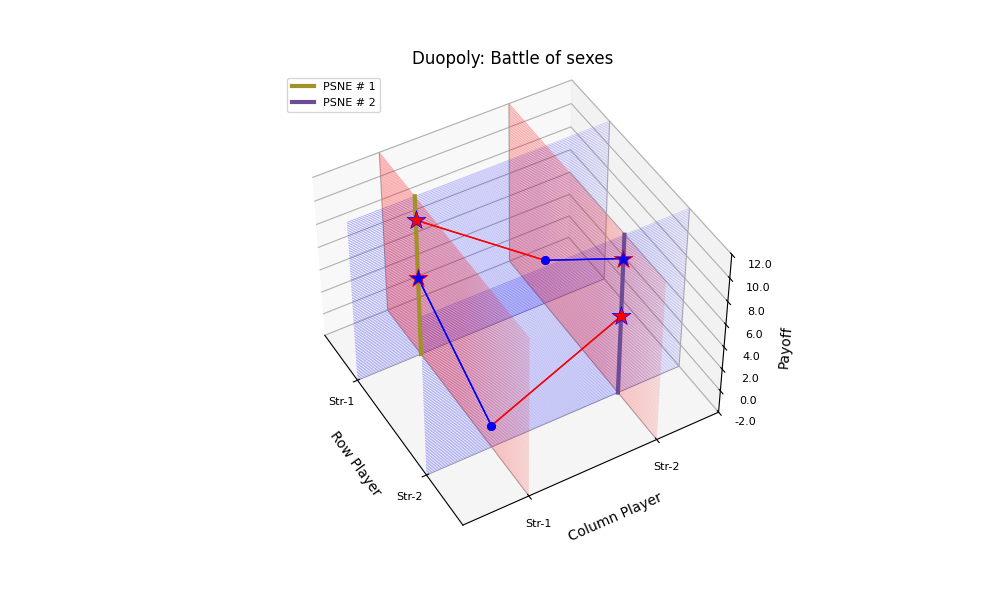
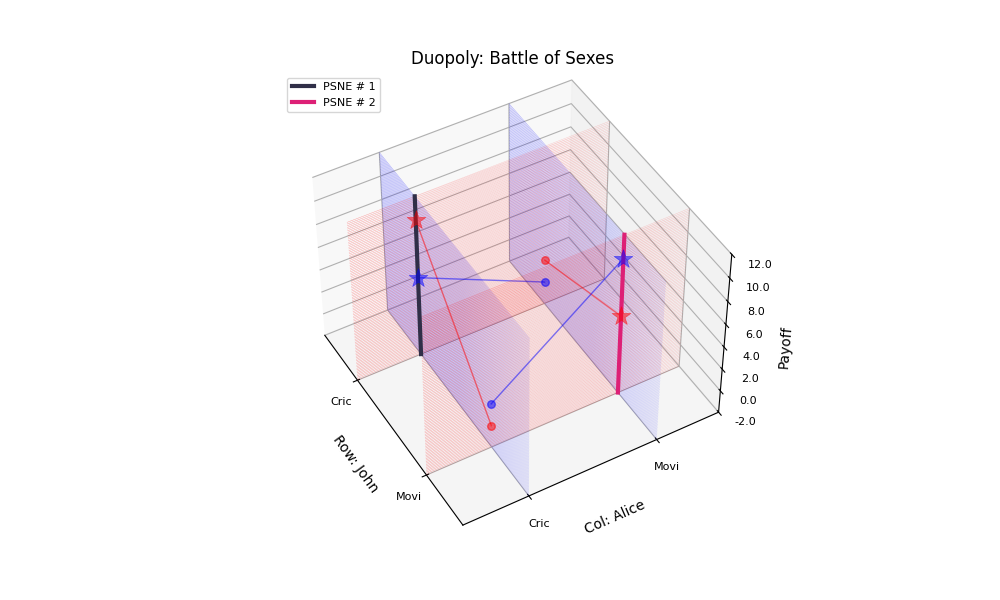
cmt

diff --git a/01StrategicDecision/Nashpy/16VNash.py b/01StrategicDecision/Nashpy/16VNash.py
@@ -4,23 +4,32 @@ players, strategies, strategies_row, strategies_col, colors = [], [], [], [], []
 game_name, payoff_quantity_name = None, None
 symmetric = True
 
-# ######################################
+########################################
 # payoff_matrix = [[(-8, -8), (0, -10)],          # ** Mandatory field **
 #                  [(-10, 0), (-1, -1)]]
 # game_name = 'Prisoner\'s Dilemma'
 # players = ['John', 'Clerk']
 # strategies = ['Confess', 'Deny']
 # payoff_quantity_name = 'Sentence-Years'
+# ######################################
+########################################
+payoff_matrix = [[(10, 5), (2, 0)],          # ** Mandatory field **
+                 [(0, 2), (5, 10)]]
+game_name = 'Battle of Sexes'
+players = ['John', 'Alice']
+strategies = ['Cricket', 'Movie']
+# payoff_quantity_name = 'Sentence-Years'
 ######################################
-######################################
-payoff_matrix = [[(5, -5), (0, 0), (0, 0)],          # ** Mandatory field **
-                 [(0, 0), (0, 0), (0, 0)],
-                 [(0, 0), (0, 0), (-5, 5)]]
-game_name = 'Politics'
-players = ['L-Party', 'R-Party']
-strategies = ['Left', 'Mid', 'Right']
-payoff_quantity_name = 'Vote Share'
-######################################
+
+#######################################
+# payoff_matrix = [[(5, -5), (0, 0), (0, 0)],          # ** Mandatory field **
+#                  [(0, 0), (0, 0), (0, 0)],
+#                  [(0, 0), (0, 0), (-5, 5)]]
+# game_name = 'Politics'
+# players = ['L-Party', 'R-Party']
+# strategies = ['Left', 'Mid', 'Right']
+# payoff_quantity_name = 'Vote Share'
+# ######################################
 
 if not game_name:
     game_name = 'Generic Game'
